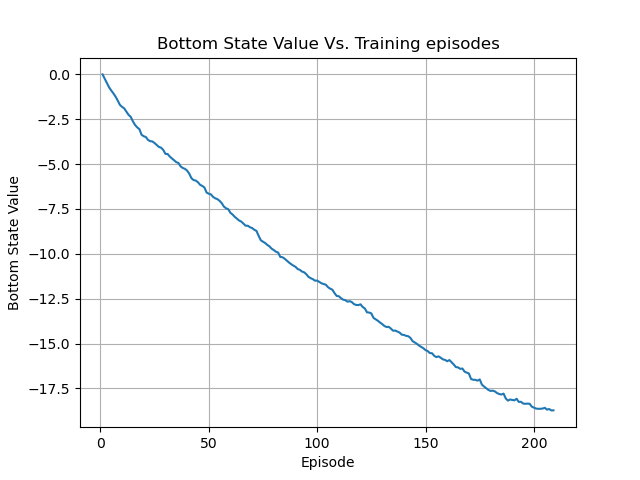
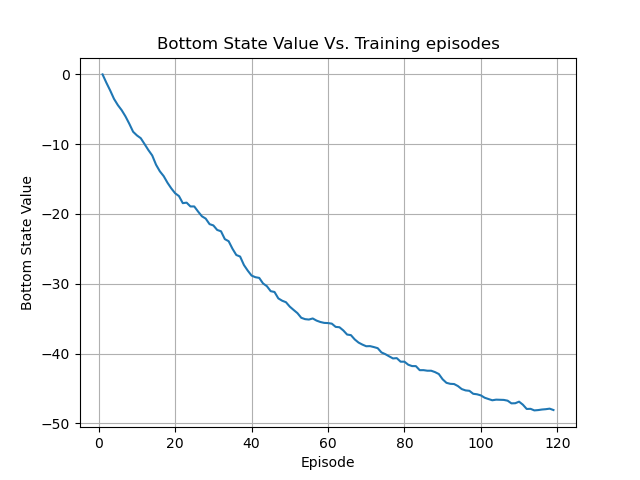
final?

diff --git a/Q4.py b/Q4.py
@@ -1,9 +1,6 @@
 import numpy as np
 import matplotlib.pyplot as plt
-
-from data_transformer import DataTransformer
 from mountain_car_with_data_collection import MountainCarWithResetEnv
-from radial_basis_function_extractor import RadialBasisFunctionExtractor
 
 from q_learn_mountain_car import Solver
 from q_learn_mountain_car import run_episode
@@ -13,8 +10,8 @@ def run_Q_learning(seed, epsilon_current=0.1, max_episodes=10000):
     np.random.seed(seed)
     env.seed(seed)
 
-    gamma = 0.99
-    learning_rate = 0.01
+    gamma = 0.999
+    learning_rate = 0.05
     epsilon_decrease = 1.
     epsilon_min = 0.05
 
@@ -43,8 +40,6 @@ def run_Q_learning(seed, epsilon_current=0.1, max_episodes=10000):
         bottom_state_max_action = solver.get_max_action(bottom_state)
         bottom_state_val.append(solver.get_q_val(bottom_state_features, bottom_state_max_action))
 
-        # print(f'after {episode_index}, reward = {episode_gain}, epsilon {epsilon_current}, average error {mean_delta}')
-
         # termination condition:
         if episode_index % 10 == 9:
             test_gains = [run_episode(env, solver, is_train=False, epsilon=0.)[0] for _ in range(10)]
@@ -57,7 +52,7 @@ def run_Q_learning(seed, epsilon_current=0.1, max_episodes=10000):
 
     return episodes_gain, success_rates, bottom_state_val, episodes_bellman_err
 
-def Q_learning_eval(seeds, epsilon_current=0.1, max_episodes=10000):
+def Q_learning_eval(seeds, epsilon_current=0.1, max_episodes=10000, save=True):
     bottom_state_val = []
     success_rates = []
     episodes_gain = []
@@ -74,7 +69,7 @@ def Q_learning_eval(seeds, epsilon_current=0.1, max_episodes=10000):
 
     for ii in range(len(episodes_gain)):
         episodes_gain[ii] = episodes_gain[ii][:episodes]
-        success_rates[ii] = success_rates[ii][:int((episodes+1)/10)]
+        success_rates[ii] = success_rates[ii][:(int((episodes+1)/10)+1)]
         bottom_state_val[ii] = bottom_state_val[ii][:episodes]
         episodes_bellman_err[ii] = episodes_bellman_err[ii][:episodes]
 
@@ -92,15 +87,15 @@ def Q_learning_eval(seeds, epsilon_current=0.1, max_episodes=10000):
     # episodes_gain = data['episodes_gain']
     # success_rates = data['success_rates']
     # bottom_state_val = data['bottom_state_val']
-    # episodes_bellman_err = data['episodes_bellman_err']
+    # episodes_bellman_err_avg = data['episodes_bellman_err_avg']
     # episodes = len(episodes_gain)
-
-    np.savez('Answers/data_Q4_3', episodes_gain=episodes_gain, success_rates=success_rates
-                        , bottom_state_val=bottom_state_val, episodes_bellman_err=episodes_bellman_err
-                        ,episodes_bellman_err_avg=episodes_bellman_err_avg)
+    if save:
+        np.savez('Answers/data_Q4_3', episodes_gain=episodes_gain, success_rates=success_rates
+                            , bottom_state_val=bottom_state_val, episodes_bellman_err=episodes_bellman_err
+                            ,episodes_bellman_err_avg=episodes_bellman_err_avg)
 
     x1 = range(1, episodes+1)
-    x2 = range(1, len(success_rates)*10 + 1, 10)
+    x2 = range(0, len(success_rates)*10 , 10)
 
     list = [episodes_gain, success_rates, bottom_state_val, episodes_bellman_err_avg]
     titles = ['Total Reward',
@@ -116,10 +111,13 @@ def Q_learning_eval(seeds, epsilon_current=0.1, max_episodes=10000):
         plt.ylabel(titles[ii])
         plt.title(titles[ii] + ' Vs. Training episodes')
         plt.grid()
-        plt.savefig("Answers/Q4_3_" + titles[ii].replace(' ', '_'))
-        plt.close()
+        if save:
+            plt.savefig("Answers/Q4_3_" + titles[ii].replace(' ', '_'))
+            plt.close()
+        else:
+            plt.show()
 
-def Q_learning_exploration_eval(seeds, epsilons, max_episodes=10000):
+def Q_learning_exploration_eval(seeds, epsilons, max_episodes=10000, save=True):
 
     episodes_gain = []
 
@@ -135,10 +133,10 @@ def Q_learning_exploration_eval(seeds, epsilons, max_episodes=10000):
             episodes_gain_tmp[ii] = episodes_gain_tmp[ii][:episodes]
 
         episodes_gain.append(np.mean(np.asarray(episodes_gain_tmp), axis=0))
+    if save:
+        np.savez('Answers/data_Q4_4', episodes_gain=episodes_gain)
 
-    np.savez('Answers/data_Q4_4', episodes_gain=episodes_gain)
 
-    #
     # # save np.load
     # np_load_old = np.load
     # # modify the default parameters of np.load
@@ -151,6 +149,7 @@ def Q_learning_exploration_eval(seeds, epsilons, max_episodes=10000):
     # np.load = np_load_old
     #
     # episodes_gain = data['episodes_gain']
+    # # episodes_gain[-1] = episodes_gain[-1][:len(episodes_gain[0])]
 
     fig, ax = plt.subplots()
     line = []
@@ -163,14 +162,30 @@ def Q_learning_exploration_eval(seeds, epsilons, max_episodes=10000):
     plt.title("Total Reward Vs. Training episodes")
     plt.grid()
     ax.legend()
-    plt.savefig('Answers/Q4_5')
-    plt.close()
+    if save:
+        plt.savefig('Answers/Q4_5')
+        plt.close()
+    else:
+        plt.show()
 
+    for ii, eps in enumerate(epsilons):
+        fig, ax = plt.subplots()
+        line.insert(ii, ax.plot(range(len(episodes_gain[ii])), episodes_gain[ii], linewidth=1))
+
+        plt.xlabel('Episode')
+        plt.ylabel("Total Reward")
+        plt.title("Total Reward Vs. Training episodes for $\\epsilon$ = " + str(eps))
+        plt.grid()
+        if save:
+            plt.savefig('Answers/Q4_5_eps'+str(eps)+'.png')
+            plt.close()
+        else:
+            plt.show()
 
 if __name__ == '__main__':
-    max_episodes = 500
-    seeds = [123] #, 234, 123]
+    max_episodes = 200
+    seeds = [123, 234, 345]
     epsilons = [1, 0.75, 0.5, 0.3, 0.01]
-    # Q_learning_eval(seeds, max_episodes=max_episodes)
-    Q_learning_exploration_eval(seeds, epsilons, max_episodes=max_episodes)
+    Q_learning_eval(seeds, max_episodes=max_episodes, save=False)
+    Q_learning_exploration_eval([123], epsilons, max_episodes=max_episodes, save=False)
 

diff --git a/Q3.py b/Q3.py
@@ -81,14 +81,15 @@ def lspi_eval(samples_to_collect, seeds, save=True):
     else:
         return avg_success_per_iter
 
-def lspi_data_depandence(samples_to_collect_arr, seeds):
+def lspi_data_depandence(samples_to_collect_arr, seeds, save=True):
     success_per_iter_per_samples = []
     for samples_num in samples_to_collect_arr:
         success_per_iter_per_samples.append(lspi_eval(samples_num, seeds, False))
 
-    np.savez('Answers/data_Q3_6', data1=np.asarray(success_per_iter_per_samples[0])
-                                , data2=np.asarray(success_per_iter_per_samples[1])
-                                , data3=np.asarray(success_per_iter_per_samples[2]))
+    if save:
+        np.savez('Answers/data_Q3_6', data1=np.asarray(success_per_iter_per_samples[0])
+                                    , data2=np.asarray(success_per_iter_per_samples[1])
+                                    , data3=np.asarray(success_per_iter_per_samples[2]))
     # data = np.load('Answers/data_Q3_6.npz')
     # success_per_iter_per_samples = []
     # success_per_iter_per_samples.append(data['data1'])
@@ -107,15 +108,17 @@ def lspi_data_depandence(samples_to_collect_arr, seeds):
     plt.title("Mean Success Rate as a Function of Iteration")
     plt.grid()
     ax.legend()
-    plt.savefig('Answers/Q3_6')
-    plt.close()
-
+    if save:
+        plt.savefig('Answers/Q3_6')
+        plt.close()
+    else:
+        plt.show()
 
 if __name__ == '__main__':
     samples_to_collect_arr = [10000, 100000, 150000]
     seeds = [123, 234, 345]
-    lspi_eval(samples_to_collect_arr[1], seeds)
-    # lspi_data_depandence(samples_to_collect_arr, seeds)
+    lspi_eval(samples_to_collect_arr[1], seeds, save=False)
+    lspi_data_depandence(samples_to_collect_arr, seeds, save=False)
 
 
 

diff --git a/Q2.py b/Q2.py
@@ -19,10 +19,13 @@ def preliminary(car_env):
         extractor = rbfe.RadialBasisFunctionExtractor(number_of_kernels_per_dim)
         states = [x for x in itertools.product(position, speed)]
         features = np.asarray(extractor.encode_states_with_radial_basis_functions(states))
-        changes = np.max(features,axis=0) - np.min(features,axis=0)
+        # changes = np.max(features, axis=0) - np.min(features, axis=0)
+        changes = np.max(features, axis=0)
         max_changing_features_index = np.argsort(changes)
 
+        # feature_1 = np.reshape(features[:, 0], (n_pos, n_speed))
         feature_1 = np.reshape(features[:, max_changing_features_index[-1]], (n_pos, n_speed))
+        # feature_2 = np.reshape(features[:, 1], (n_pos, n_speed))
         feature_2 = np.reshape(features[:, max_changing_features_index[-2]], (n_pos, n_speed))
 
         return feature_1, feature_2
@@ -38,8 +41,8 @@ def preliminary(car_env):
         ax.set_ylabel('Speed', fontsize=10)
         ax.set_zlabel('Value', fontsize=10, rotation=60)
         ax.set_title('Feature ' + str(num_of_feature))
-        plt.savefig('Answers/Q2_features_' + str(num_of_feature) + '.png')
-        # plt.show()
+        # plt.savefig('Answers/Q2_features_' + str(num_of_feature) + '.png')
+        plt.show()
 
     feature_1, feature_2 = get_features()
     plot_fiture(feature_1, 1)

diff --git a/q_learn_mountain_car.py b/q_learn_mountain_car.py
@@ -61,7 +61,7 @@ class Solver:
         max_action = self.get_max_action(next_state)
         current_q = self.get_q_val(features, action)
         next_q = self.get_q_val(next_features, max_action)
-        bellman_error = current_q - (reward + self.gamma * next_q)
+        bellman_error = current_q - (reward + self.gamma * next_q*(1-done))
         next_theta = self.theta - self.learning_rate * bellman_error * self.get_state_action_features(state, action)
         self.theta = next_theta
         return abs(bellman_error)
